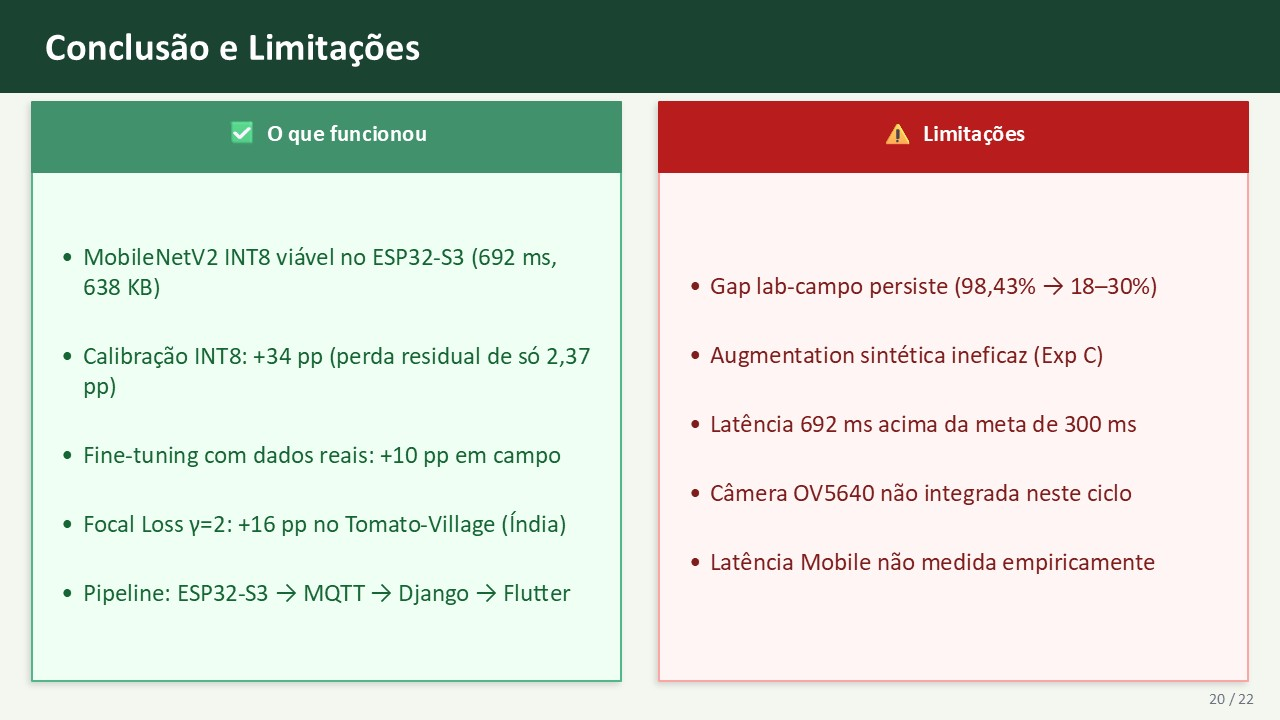
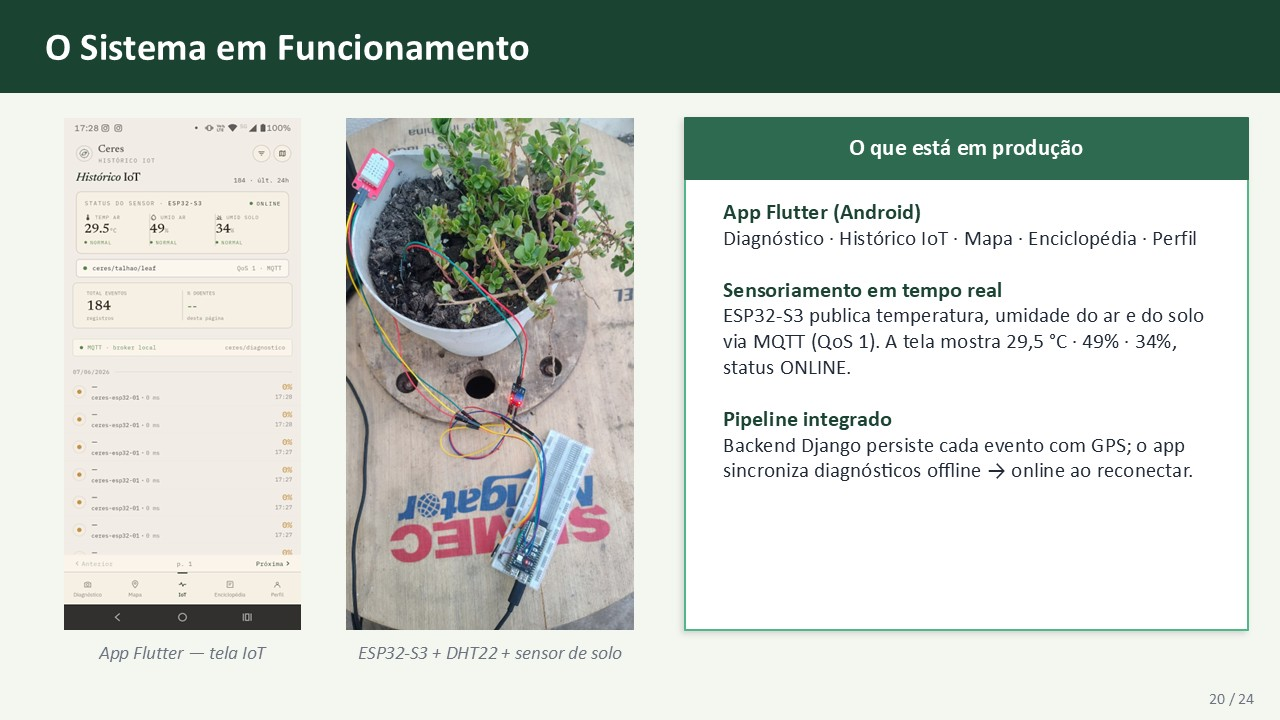
feat: ENIAC paridade conteudo; slides 24 com app+hardware+demo

diff --git a/docs/slides/gerar_slides.js b/docs/slides/gerar_slides.js
@@ -14,7 +14,7 @@ const VM2 = "40916C";   // verde médio 2
 const RD  = "B91C1C";   // vermelho
 const GN  = "166534";   // verde escuro positivo
 
-const TOTAL = 22;
+const TOTAL = 24;
 
 const makeShadow = () => ({
   type: "outer", blur: 5, offset: 2, angle: 135, color: "000000", opacity: 0.14
@@ -600,12 +600,72 @@ pres.title   = "Ceres Diagnóstico — PSI";
 }
 
 // ===========================================================================
-// SLIDE 20 — CONCLUSÃO E LIMITAÇÕES
+// SLIDE 20 — O SISTEMA EM FUNCIONAMENTO (app + hardware)
+// ===========================================================================
+{
+  const s = pres.addSlide();
+  headerBar(s, "O Sistema em Funcionamento");
+  slideNum(s, 20);
+
+  // App (print do celular)
+  s.addImage({ path: "app_iot.jpg", x: 0.5, y: 0.92, w: 1.85, h: 4.0 });
+  s.addText("App Flutter — tela IoT", { x: 0.35, y: 4.95, w: 2.15, h: 0.3, fontSize: 10.5, italic: true, color: "6B7280", align: "center" });
+
+  // Hardware (foto real)
+  s.addImage({ path: "hardware_setup.jpg", x: 2.7, y: 0.92, w: 2.25, h: 4.0 });
+  s.addText("ESP32-S3 + DHT22 + sensor de solo", { x: 2.55, y: 4.95, w: 2.55, h: 0.3, fontSize: 10.5, italic: true, color: "6B7280", align: "center" });
+
+  card(s, 5.35, 0.92, 4.4, 4.0, VM, VC, "O que está em produção");
+  s.addText([
+    { text: "App Flutter (Android)\n", options: { bold: true, color: VE, fontSize: 12.5 } },
+    { text: "Diagnóstico · Histórico IoT · Mapa · Enciclopédia · Perfil\n\n", options: { color: GT, fontSize: 12 } },
+    { text: "Sensoriamento em tempo real\n", options: { bold: true, color: VE, fontSize: 12.5 } },
+    { text: "ESP32-S3 publica temperatura, umidade do ar e do solo via MQTT (QoS 1). A tela mostra 29,5 °C · 49% · 34%, status ONLINE.\n\n", options: { color: GT, fontSize: 12 } },
+    { text: "Pipeline integrado\n", options: { bold: true, color: VE, fontSize: 12.5 } },
+    { text: "Backend Django persiste cada evento com GPS; o app sincroniza diagnósticos offline → online ao reconectar.", options: { color: GT, fontSize: 12 } }
+  ], { x: 5.55, y: 1.5, w: 4.05, h: 3.3, valign: "top" });
+}
+
+// ===========================================================================
+// SLIDE 21 — DEMONSTRAÇÃO (vídeo + QR)
+// ===========================================================================
+{
+  const s = pres.addSlide();
+  headerBar(s, "Demonstração e Recursos");
+  slideNum(s, 21);
+
+  // Vídeo embarcado (toca no PowerPoint)
+  s.addMedia({ type: "video", path: "demo_ceres.mp4", x: 0.55, y: 0.95, w: 2.55, h: 4.2 });
+  s.addText("▶  Vídeo demonstrativo", { x: 0.55, y: 5.0, w: 2.55, h: 0.3, fontSize: 10.5, italic: true, color: "6B7280", align: "center" });
+
+  card(s, 3.35, 0.95, 3.0, 4.2, VM, VC, "O que o vídeo mostra");
+  s.addText([
+    { text: "1. ", options: { bold: true, color: DO, fontSize: 12.5 } },
+    { text: "Captura da folha pela câmera do app\n\n", options: { color: GT, fontSize: 12 } },
+    { text: "2. ", options: { bold: true, color: DO, fontSize: 12.5 } },
+    { text: "Diagnóstico INT8 (Edge / Mobile / Cloud)\n\n", options: { color: GT, fontSize: 12 } },
+    { text: "3. ", options: { bold: true, color: DO, fontSize: 12.5 } },
+    { text: "Publicação via MQTT do ESP32-S3\n\n", options: { color: GT, fontSize: 12 } },
+    { text: "4. ", options: { bold: true, color: DO, fontSize: 12.5 } },
+    { text: "Histórico e mapa de eventos com GPS", options: { color: GT, fontSize: 12 } }
+  ], { x: 3.55, y: 1.55, w: 2.65, h: 3.5, valign: "top" });
+
+  // QR
+  s.addShape("rect", { x: 6.55, y: 0.95, w: 3.2, h: 4.2, fill: { color: BR }, line: { color: DO, pt: 1.5 }, rectRadius: 0.08, shadow: makeShadow() });
+  s.addImage({ path: "qrcode_drive.png", x: 6.85, y: 1.25, w: 2.6, h: 2.74 });
+  s.addText([
+    { text: "Baixe e teste\n", options: { bold: true, color: VE, fontSize: 13 } },
+    { text: "APK + imagens de teste\ngithub.com/Namem/extensao2", options: { color: GT, fontSize: 11.5 } }
+  ], { x: 6.65, y: 4.1, w: 3.0, h: 0.95, align: "center", valign: "top" });
+}
+
+// ===========================================================================
+// SLIDE 22 — CONCLUSÃO E LIMITAÇÕES
 // ===========================================================================
 {
   const s = pres.addSlide();
   headerBar(s, "Conclusão e Limitações");
-  slideNum(s, 20);
+  slideNum(s, 22);
   const colW = 4.6, colH = 4.52, colY = 0.8;
   const cols = [
     { x: 0.25, bg: "F0FFF4", border: VC, hbg: VM2, label: "✅  O que funcionou" },
@@ -643,7 +703,7 @@ pres.title   = "Ceres Diagnóstico — PSI";
 {
   const s = pres.addSlide();
   headerBar(s, "Trabalhos Futuros");
-  slideNum(s, 21);
+  slideNum(s, 23);
   const items = [
     { badge: "Sprint 2", txt: "Integração da câmera OV5640 + medição de latência real com sensor no ESP32-S3" },
     { badge: "Sprint 3", txt: "Coleta de dataset em lavouras de Sorriso-MT + validação com produtores rurais" },

diff --git a/docs/artigo_sbc/main_eniac.tex b/docs/artigo_sbc/main_eniac.tex
@@ -124,6 +124,11 @@ e energia ($<$1~W) \cite{warden2019}. O TensorFlow Lite Micro (TFLite Micro) é 
 principal \textit{framework} para esse paradigma, executando modelos quantizados
 diretamente no firmware sem sistema operacional. A ausência de dependência de rede
 torna o TinyML adequado para ambientes rurais com conectividade instável.
+A opção por um microcontrolador (ESP32-S3, $\approx$R\$~80) em vez de um computador
+de placa única (Raspberry Pi~4, $\approx$R\$~400$+$) deve-se ao menor custo, à
+ausência de sistema operacional (menor superfície de ataque e \textit{boot}
+instantâneo) e ao consumo reduzido ($<$500~mW vs.\ $>$5~W), viabilizando o
+\textit{deploy} rural de baixo custo.
 
 \subsection{MobileNetV2 e Quantização INT8}
 
@@ -492,6 +497,11 @@ consistência entre \textit{datasets} ($+$16~pp no Tomato-Village: 11,52\%~$\to$
 \textbf{Gap geográfico:} EUA/Europa (30,43\%) $>$ Índia (27,65\%) $>$ Bangladesh
 (18,13\%), confirmando Barbedo~\cite{barbedo2019}: especificidade geográfica em
 função de variedades locais e condições tropicais.
+
+\textbf{Colapso de classe:} no Exp.~D avaliado no Tomato-Village, o modelo
+classificou D02\_septoriose para 73\% das folhas saudáveis indianas --- padrão de
+colapso sob \textit{shift} de domínio extremo, parcialmente mitigado no Exp.~E com
+Focal Loss.
 
 \subsection{Comparativo Edge, Mobile e Cloud}
 
